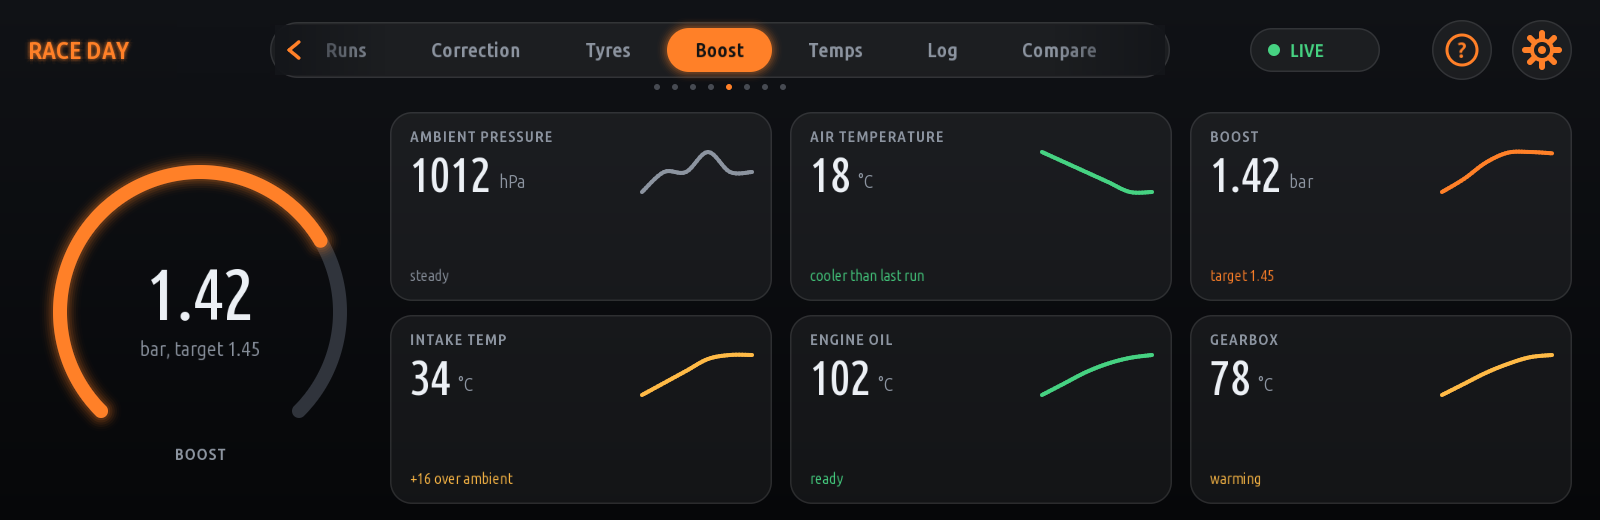
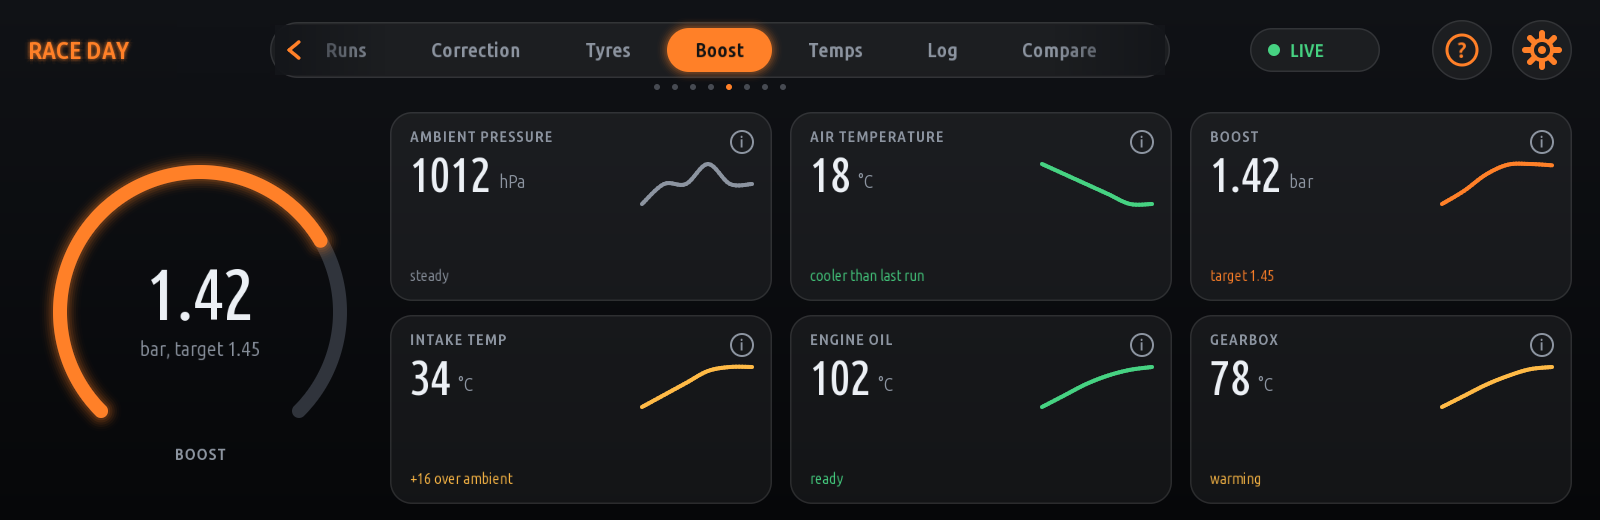
Explain every card: the (i), the info popup and How to use
Owner 17:35: every card has a small (i) top right and tapping it opens a
popup with an animation on the left and plain text on the right (what it
is, where it comes from, why it matters, normal values), a close X and a
Got it button. The How to use page uses the same pattern: topics, the
animation, the text.

lib/ui.js: card(), stat() and chart() draw the (i) and take onInfo;
infoPopup() and helpPage() take the knob and touches while open; the
text is translated before it is wrapped. tools/ui_demo.js also draws
both overlays (docs/design/ui-demo-popup.png, ui-demo-help.png) and
checks the popup leaves only its own targets.

diff --git a/lib/ui.js b/lib/ui.js
@@ -204,14 +204,22 @@ function gearGlyph(cv, cx, cy, c) {
     cv.arc(cx, cy, 8, 12, 0, 360, c);
     cv.circle(cx, cy, 4, c);
 }
-/** A round glass icon button, kind 'help' or 'settings'. No label under it: it would push the button off the header's centre line (owner, 17:17). */
+/** The close glyph: an X of two round-ended strokes. */
+function closeGlyph(cv, cx, cy, c) {
+    const d = 9;
+    cv.line(cx - d, cy - d, cx + d, cy + d, 4, c);
+    cv.line(cx - d, cy + d, cx + d, cy - d, 4, c);
+}
+/** A round glass icon button, kind 'help', 'settings' or 'close'. No label under it: it would push the button off the header's centre line (owner, 17:17). */
 function iconButton(cv, cx, cy, kind) {
     const r = 30, glow = 4, S = r + glow;
     cv.blit(G.layer('p96btn|' + kind, 2 * S + 40, 2 * S, (c) => {
         const x = S + 20;
         c.circle(x, S, r, C.glassFill);
         c.arc(x, S, r - 1.5, r, 0, 360, C.glassLine);
-        if (kind === 'help') helpGlyph(c, x, S, C.accent); else gearGlyph(c, x, S, C.accent);
+        if (kind === 'help') helpGlyph(c, x, S, C.accent);
+        else if (kind === 'close') closeGlyph(c, x, S, C.accent);
+        else gearGlyph(c, x, S, C.accent);
     }, cv.textScale), cx - S - 20, cy - S);
 }
 /**
@@ -258,12 +266,32 @@ function glass(cv, x, y, w, h, r) {
     cv.roundRect(x, y, w, h, r, C.glassFill);
     cv.strokeRoundRect(x, y, w, h, r, 1.5, C.glassLine);
 }
-/** A glass card as a cached layer, with an optional uppercase label. */
-function card(cv, x, y, w, h, label, r) {
-    cv.blit(G.layer('p96card|' + w + '|' + h + '|' + (label || '') + '|' + (r || 22), w, h, (c) => {
+/**
+ * The small (i) top right of every card (owner, 17:35): a dim ring and an "i". Dim, not the accent:
+ * it sits in the card's cached layer and must not change with the ambient light.
+ */
+function infoDot(cv, cx, cy) {
+    cv.arc(cx, cy, 10, 12, 0, 360, C.dim);
+    cv.text('i', cx, cy + 5.5, 15, C.dim, { font: 'bold', align: 'center', literal: true });
+}
+const INFO_DX = 30, INFO_DY = 30;   // the (i)'s centre from the card's top right corner
+/** The (i) is on every card; onInfo makes the whole card a touch and knob target that opens its popup. */
+function cardInfo(cv, x, y, w, h, onInfo, r) {
+    if (typeof onInfo === 'function' && cv.target) cv.target(x, y, w, h, onInfo, 'p96info|' + x + '|' + y, r == null ? 22 : r);
+}
+/**
+ * A glass card as a cached layer, with an optional uppercase label and the (i) top right (owner, 17:35).
+ * onInfo: a function opens the card's info popup on a tap (infoPopup()); false leaves the (i) out (a
+ * card inside a popup or a page that is itself the explanation).
+ */
+function card(cv, x, y, w, h, label, r, onInfo) {
+    const dot = onInfo !== false;
+    cv.blit(G.layer('p96card|' + w + '|' + h + '|' + (label || '') + '|' + (r || 22) + '|' + (dot ? 'i' : ''), w, h, (c) => {
         glass(c, 0, 0, w, h, r);
         if (label) c.text(String(label).toUpperCase(), 20, 30, 15, C.dim, { font: 'bold', spacing: 1 });
+        if (dot) infoDot(c, w - INFO_DX, INFO_DY);
     }, cv.textScale), x, y);
+    cardInfo(cv, x, y, w, h, onInfo, r);
 }
 
 /** Catmull-Rom through pts, `k` steps a segment: every Paget96 Garage line is a smooth curve. */
@@ -304,15 +332,15 @@ function bar(cv, x, y, w, h, frac, c) {
 /**
  * Stat card: g = { label, value, decimals, unit, sub, color, history }. color names the status
  * ('ok' green, 'warm' amber, 'accent' orange, 'dim', 'bad', 'info' or a '#hex'); it colours the sub
- * line and the sparkline. value null shows "--".
+ * line and the sparkline. value null shows "--". g.onInfo opens the card's info popup (see card()).
  */
 function stat(cv, x, y, w, h, g) {
-    card(cv, x, y, w, h, g.label);
+    card(cv, x, y, w, h, g.label, null, g.onInfo);
     const vs = G.isNum(g.value) ? G.fmt(g.value, g.decimals) : g.value != null ? String(g.value) : '--';
     const vw = cv.text(vs, x + 20, y + 80, 48, G.isNum(g.value) || g.value != null ? C.text : C.dim, { font: 'num', literal: true });
     if (g.unit) cv.text(g.unit, x + 28 + vw, y + 76, 18, C.dim);
     if (g.sub) cv.text(g.sub, x + 20, y + h - 20, 15, colour(g.color));
-    if (g.history) spark(cv, x + w - 130, y + 40, 110, 40, g.history, g.color || C.orange);
+    if (g.history) spark(cv, x + w - 130, y + 52, 110, 40, g.history, g.color || C.orange);   // under the (i)
 }
 
 /* ---------- hero ring ---------- */
@@ -353,16 +381,19 @@ function pill(cv, x, y, text, c, filled) {
 
 /**
  * A chart in the same style: glass card, faint grid, line series with a soft fill under the first.
- * series = [{ values, color }], opts = { label, min, max, gridLines (4) }.
+ * series = [{ values, color }], opts = { label, min, max, gridLines (4), onInfo } (onInfo: see card()).
  */
 function chart(cv, x, y, w, h, series, opts) {
     opts = opts || {};
-    const top = opts.label ? 48 : 20, px = x + 20, py = y + top, pw = w - 40, ph = h - top - 20, n = opts.gridLines || 4;
-    cv.blit(G.layer('p96chart|' + w + '|' + h + '|' + (opts.label || '') + '|' + n, w, h, (c) => {
+    const dot = opts.onInfo !== false;
+    const top = opts.label || dot ? 48 : 20, px = x + 20, py = y + top, pw = w - 40, ph = h - top - 20, n = opts.gridLines || 4;
+    cv.blit(G.layer('p96chart|' + w + '|' + h + '|' + (opts.label || '') + '|' + n + '|' + (dot ? 'i' : ''), w, h, (c) => {
         glass(c, 0, 0, w, h);
         if (opts.label) c.text(String(opts.label).toUpperCase(), 20, 30, 15, C.dim, { font: 'bold', spacing: 1 });
+        if (dot) infoDot(c, w - INFO_DX, INFO_DY);
         for (let i = 0; i <= n; i++) c.fillRect(20, top + Math.round(i * ph / n), pw, 1, [255, 255, 255, 18]);
     }, cv.textScale), x, y);
+    cardInfo(cv, x, y, w, h, opts.onInfo);
     const all = [];
     series.forEach((s) => (s.values || []).forEach((v) => { if (G.isNum(v)) all.push(v); }));
     if (!all.length) return;
@@ -377,7 +408,152 @@ function chart(cv, x, y, w, h, series, opts) {
     });
 }
 
+/* ---------- explaining: the info popup and the How to use page (owner, 2026-11-26 17:35) ---------- */
+
+const tr = kit('i18n').t;
+const fitText = kit('text-layout').fitText;
+const wrapped = new Map();
+/** str (translated first, so whole sentences are translated) broken into lines that fit width. Memoised. */
+function wrap(cv, str, size, width, opts) {
+    const o = Object.assign({}, opts || {}, { literal: true });
+    const key = size + '|' + width + '|' + (o.font || '') + '|' + str;
+    if (wrapped.has(key)) return wrapped.get(key);
+    const out = [];
+    String(tr(String(str))).split('\n').forEach((para) => {
+        let line = '';
+        para.split(/\s+/).filter(Boolean).forEach((word) => {
+            const next = line ? line + ' ' + word : word;
+            if (!line || cv.textWidth(next, size, o) <= width) line = next;
+            else { out.push(line); line = word; }
+        });
+        out.push(line);
+    });
+    if (wrapped.size > 400) wrapped.clear();
+    wrapped.set(key, out);
+    return out;
+}
+
+/**
+ * The explanation text: sections [{ head, text }] (what it is, where it comes from, why it matters,
+ * normal values), or one plain text. Heads uppercase dim, text wrapped. Stops before maxY; the last
+ * line that still fits ends in "...". Returns the y under the last line.
+ */
+function explain(cv, x, y, w, maxY, sections) {
+    const list = typeof sections === 'string' ? [{ text: sections }] : (sections || []);
+    const size = 18, lh = 25, o = { literal: true };
+    for (let s = 0; s < list.length; s++) {
+        if (list[s].head) {
+            if (y + 20 > maxY) return y;
+            cv.text(String(tr(String(list[s].head))).toUpperCase(), x, y + 15, 14, C.dim, { font: 'bold', spacing: 1, literal: true });
+            y += 26;
+        }
+        const lines = wrap(cv, list[s].text || '', size, w);
+        for (let i = 0; i < lines.length; i++) {
+            if (y + lh > maxY) {
+                cv.text(fitText(cv, lines[i] + '...', size, w, o), x, y + size, size, C.text, o);
+                return y + lh;
+            }
+            cv.text(lines[i], x, y + size, size, C.text, o);
+            y += lh;
+        }
+        y += 14;
+    }
+    return y;
+}
+
+/** Seconds since `since` (ms), the clock an explanation's animation runs on. */
+const sinceOpen = (since) => (Date.now() - (since || 0)) / 1000;
+
+/** An overlay takes the knob and the touches: the page's targets under it go. */
+function modal(cv) { if (cv.targets) cv.targets.length = 0; }
+
+/** The filled accent button ("Got it"): a pill with a glow, dark bold text. Chrome, so C.accent. */
+function button(cv, x, y, w, h, text, run, key) {
+    cv.blit(G.layer('p96button|' + w + '|' + h + '|' + text, w + 32, h + 32, (c) => {
+        glowRoundRect(c, 16, 16, w, h, h / 2, C.accent, 12, 0.8);
+        c.roundRect(16, 16, w, h, h / 2, C.accent);
+        c.text(text, 16 + w / 2, 16 + h / 2 + 7, 19, C.dark, { font: 'bold', align: 'center' });
+    }, cv.textScale), x - 16, y - 16);
+    if (run && cv.target) cv.target(x, y, w, h, run, key || 'p96button|' + text, h / 2);
+}
+
+/** When an explanation has no animation yet: a slow pulsing (i). */
+function defaultArt(cv, x, y, w, h, t) {
+    const cx = x + w / 2, cy = y + h / 2, r = 46 + 6 * Math.sin(t * 2.4);
+    cv.arc(cx, cy, r - 5, r, 0, 360, C.dim);
+    cv.text('i', cx, cy + 22, 64, C.dim, { font: 'bold', align: 'center', literal: true });
+}
+
+const POP = { x: 120, y: 26, w: 1360, h: 468 };
+/**
+ * The info popup a card opens (owner, 17:35): the page dims, a glass panel shows an animation on the
+ * left (what the value is and how it works) and plain text on the right, with a close X top right and
+ * a "Got it" button. Draw it last, over the page; it takes the knob and touches while open.
+ * p = { title, sections: [{ head, text }] or text, art(cv, x, y, w, h, t), since (ms it opened),
+ *       onClose, gotIt ('Got it') }. art draws into the box each frame; t is seconds since `since`.
+ */
+function infoPopup(cv, p) {
+    p = p || {};
+    modal(cv);
+    const pw = cv.w || W, ph = cv.h || H, b = POP;
+    cv.fillRect(0, 0, pw, ph, [0, 0, 0, 170]);
+    const ax = b.x + 24, ay = b.y + 24, aw = 480, ah = b.h - 48;
+    cv.blit(G.layer('p96pop|' + b.w + '|' + b.h, b.w, b.h, (c) => {
+        c.roundRect(0, 0, b.w, b.h, 28, C.bgTop);
+        glass(c, 0, 0, b.w, b.h, 28);
+        glass(c, 24, 24, aw, ah, 20);
+    }, cv.textScale), b.x, b.y);
+    (p.art || defaultArt)(cv, ax, ay, aw, ah, sinceOpen(p.since));
+    const tx = ax + aw + 36;
+    if (p.title) cv.text(p.title, tx, b.y + 64, 28, C.text, { font: 'bold' });
+    const bh = 52, bw = 180, by = b.y + b.h - 24 - bh;
+    explain(cv, tx, b.y + 92, b.x + b.w - 36 - tx, by - 12, p.sections != null ? p.sections : p.text);
+    iconButton(cv, b.x + b.w - 54, b.y + 54, 'close');
+    if (p.onClose && cv.target) cv.target(b.x + b.w - 84, b.y + 24, 60, 60, p.onClose, 'p96popclose', 30);
+    button(cv, b.x + b.w - 36 - bw, by, bw, bh, p.gotIt || 'Got it', p.onClose, 'p96popok');
+}
+
+/**
+ * The How to use page behind the ? button (owner, 17:35): the same pattern as the popup on a whole
+ * page. Topics on the left (touch and knob targets), the selected topic's animation in the middle,
+ * its explanation on the right, a close X top right where the Settings button sits. Up to 6 topics.
+ * p = { topics: [{ title, sections or text, art }], sel, onSelect(i), onClose, since, name ('HOW TO USE') }.
+ * since: ms the topic was opened, so its animation starts from the beginning.
+ */
+function helpPage(cv, p) {
+    p = p || {};
+    modal(cv);
+    const topics = p.topics || [], sel = G.clamp(p.sel || 0, 0, Math.max(0, topics.length - 1));
+    const pw = cv.w || W, ph = cv.h || H, top = CONTENT_TOP, bottom = ph - 16;
+    background(cv, pw, ph);
+    title(cv, p.name || 'HOW TO USE');
+    const cx = pw - MARGIN - 30;
+    iconButton(cv, cx, HEAD_CY, 'close');
+    if (p.onClose && cv.target) cv.target(cx - 30, HEAD_CY - 30, 60, 60, p.onClose, 'p96helpclose', 30);
+    // topics
+    const lx = MARGIN, lw = 340, rh = 54, gap = 10;
+    topics.slice(0, 6).forEach((tp, i) => {
+        const ry = top + i * (rh + gap), on = i === sel;
+        cv.blit(G.layer('p96topic|' + lw + '|' + rh + '|' + tp.title + '|' + (on ? 1 : 0), lw + 28, rh + 28, (c) => {
+            if (on) { glowRoundRect(c, 14, 14, lw, rh, rh / 2, C.accent, 12, 0.8); c.roundRect(14, 14, lw, rh, rh / 2, C.accent); }
+            else glass(c, 14, 14, lw, rh, rh / 2);
+            c.text(fitText(c, tp.title, 19, lw - 48, { font: 'bold' }), 14 + 24, 14 + rh / 2 + 7, 19, on ? C.dark : C.text, { font: 'bold', literal: true });
+        }, cv.textScale), lx - 14, ry - 14);
+        if (p.onSelect && cv.target) cv.target(lx, ry, lw, rh, () => p.onSelect(i), 'p96topic' + i, rh / 2);
+    });
+    // the animation, then the text
+    const ax = lx + lw + 24, aw = 520, ah = bottom - top;
+    card(cv, ax, top, aw, ah, null, 22, false);
+    const tp = topics[sel] || {};
+    (tp.art || defaultArt)(cv, ax + 16, top + 16, aw - 32, ah - 32, sinceOpen(p.since));
+    const tx = ax + aw + 24, tw = pw - MARGIN - tx;
+    card(cv, tx, top, tw, ah, null, 22, false);
+    if (tp.title) cv.text(tp.title, tx + 28, top + 48, 26, C.text, { font: 'bold' });
+    explain(cv, tx + 28, top + 70, tw - 56, bottom - 18, tp.sections != null ? tp.sections : tp.text);
+}
+
 module.exports = {
     W, H, MARGIN, HEAD_CY, CONTENT_TOP, C, STATUS, background, title, tabs, nextTab, header, iconButton, status, glass, card, stat, spark, curve, smoothPts, bar, ring, pill, chart,
+    infoDot, infoPopup, helpPage, explain, wrap, button,
     glowRoundRect, glowArc, glowText,
 };

diff --git a/tools/ui_demo.js b/tools/ui_demo.js
@@ -5,7 +5,8 @@
  * Draws the Paget96 Garage UI reference page (docs/design/ui-B-final.png) with lib/ui.js, through the
  * same path the head unit's software fallback uses (record.js Recorder played into canvas.js),
  * and writes docs/design/ui-demo.png, so the library can be checked against the reference.
- * It also times a frame recording, the part the GPU path pays every frame.
+ * It also times a frame recording, the part the GPU path pays every frame. Beside it, it draws a
+ * card's info popup (<out>-popup.png) and the How to use page (<out>-help.png).
  *
  *   node tools/ui_demo.js [out.png]
  */
@@ -34,6 +35,31 @@ function frame(cv) {
     CONTENT.forEach((g, i) => UI.stat(cv, 390 + (i % 3) * 400, UI.CONTENT_TOP + Math.floor(i / 3) * 203, 382, 189, g));
 }
 
+/** The Boost popup's animation: the ring fills and falls back, as boost builds and drops. */
+function boostArt(cv, x, y, w, h, t) {
+    const v = 0.45 + 0.4 * Math.sin(t * 1.6);
+    UI.ring(cv, x + w / 2, y + h / 2 - 10, 140, { value: v, min: 0, max: 1, text: (v * 2).toFixed(2), unit: 'bar', label: 'Boost', smooth: false });
+}
+const BOOST_INFO = {
+    title: 'Boost',
+    sections: [
+        { head: 'What it is', text: 'How far the turbo pushes the intake air above the air pressure outside, in bar.' },
+        { head: 'Where it comes from', text: 'The engine computer reports the charge pressure; the app takes away the ambient pressure.' },
+        { head: 'Why it matters', text: 'Boost that stays under its target on a run points at a leak, a hot intake or thin air.' },
+        { head: 'Normal values', text: 'Near 0 at idle, up to the target under full load. The target is the small line under the number.' },
+    ],
+    art: boostArt,
+};
+const HELP = [
+    { title: 'Start a run', text: 'Stop, choose a run on the Runs tab and pull away. The run starts by itself when the car moves.', art: boostArt },
+    { title: 'Read the cards', text: 'Every card shows one value, a coloured line under it and its trend on the right. Tap a card to see what it means.' },
+    { title: 'Correction', text: 'Times are corrected to standard air, so runs on hot and cold days can be compared.' },
+    { title: 'Settings', text: 'The gear opens Settings: renderer, frame rate, follow ambient lighting and demo data.' },
+];
+
+function popupFrame(cv) { frame(cv); UI.infoPopup(cv, Object.assign({ since: Date.now() - 600, onClose() {} }, BOOST_INFO)); }
+function helpFrame(cv) { UI.helpPage(cv, { topics: HELP, sel: 0, since: Date.now() - 600, onSelect() {}, onClose() {} }); }
+
 const rec = new Recorder(UI.W, UI.H);
 frame(rec);                                    // first frame records the cached layers
 const N = 200, t0 = process.hrtime();
@@ -44,3 +70,14 @@ play(rec.words(), cv);
 const out = process.argv[2] || path.join(__dirname, '..', 'docs', 'design', 'ui-demo.png');
 fs.writeFileSync(out, cv.png(9));
 console.log('%s: one frame records in %s ms (%d words)', out, ms.toFixed(3), rec.words().length);
+
+[['popup', popupFrame], ['help', helpFrame]].forEach((d) => {
+    const r = new Recorder(UI.W, UI.H);
+    d[1](r);
+    if (d[0] === 'popup' && r.targets.length !== 2) throw new Error('the popup must leave only its own two targets, has ' + r.targets.length);
+    const c = new Canvas(UI.W, UI.H);
+    play(r.words(), c);
+    const o = out.replace(/\.png$/, '') + '-' + d[0] + '.png';
+    fs.writeFileSync(o, c.png(9));
+    console.log('%s: %d words, %d targets', o, r.words().length, r.targets.length);
+});

diff --git a/docs/DESIGN.md b/docs/DESIGN.md
@@ -18,9 +18,9 @@ The same page drawn by `lib/ui.js` (`node tools/ui_demo.js`, the head unit's sof
 | App name | top left, x 28, baseline 44 | bold 24, orange, soft orange glow |
 | Tabs | glass bar x 270 to 1170, y 12, 56 high | pills; the selected one filled orange with a glow and dark text, the others dim. Many tabs scroll sideways: the ends fade out, round-ended arrows (left, right) show where there is more, position dots sit under the bar, the selected tab glides into view, and the iDrive knob goes through all tabs |
 | Status pill | glass pill 130 x 44, left of the two buttons (x 1250) | a dot and LIVE (green) or demo |
-| How to use, Settings | round glass buttons, r 30, flush right at the title's margin (28 px): Settings centred at x 1542, How to use at 1462; the Settings button's right edge is the content cards' right edge | "?" and a gear in orange, a small dim label under each. Both pages are mandatory in every app |
+| How to use, Settings | round glass buttons, r 30, flush right at the title's margin (28 px): Settings centred at x 1542, How to use at 1462; the Settings button's right edge is the content cards' right edge | "?" and a gear in the accent, no labels under them (owner, 17:17). Both pages are mandatory in every app |
 | Hero ring | left column, centre (200, 300), r 150 | dark track, orange arc with glow over 270 degrees, the number large in the middle, a unit line, an uppercase label below. Only where an app has one main number |
-| Cards | right of the ring, 3 x 2, 386 x 200, 14 px apart | glass: white 6 % fill, 10 % outline, radius 22; uppercase dim label, big condensed number, small unit, a coloured one-line status, a sparkline on the right |
+| Cards | right of the ring, 3 x 2, 386 x 200, 14 px apart | glass: white 6 % fill, 10 % outline, radius 22; uppercase dim label, a dim (i) top right, big condensed number, small unit, a coloured one-line status, a sparkline on the right under the (i) |
 
 Status colours: green (70,210,130) ok, amber (255,186,70) warming, orange (255,128,40) accent, dim
 (140,148,160) neutral, red bad, blue info. Text (236,240,245).
@@ -40,12 +40,33 @@ frame surface as every kit widget: the GPU renderer at 60 fps, or the software c
 | `status(cv, label, note, color)` | LIVE / demo as plain text (a page without the header) |
 | `bar(cv, x, y, w, h, frac, color)` | a progress bar with round ends |
 | `curve(cv, pts, width, color)` | a smoothed line with round caps and joins |
-| `card(cv, x, y, w, h, label)` | a glass card |
-| `stat(cv, x, y, w, h, { label, value, decimals, unit, sub, color, history })` | a stat card with sparkline |
+| `card(cv, x, y, w, h, label, r, onInfo)` | a glass card with the (i) top right; `onInfo` makes the card a target that opens its popup, `false` leaves the (i) out |
+| `stat(cv, x, y, w, h, { label, value, decimals, unit, sub, color, history, onInfo })` | a stat card with sparkline |
 | `ring(cv, cx, cy, r, { value, min, max, text, unit, label, color })` | the hero ring (the arc glides) |
 | `pill(cv, x, y, text, color, filled)` | a status pill |
-| `chart(cv, x, y, w, h, series, { label, min, max })` | a chart card: grid, lines, a soft fill under the first |
+| `chart(cv, x, y, w, h, series, { label, min, max, onInfo })` | a chart card: grid, lines, a soft fill under the first |
+| `infoPopup(cv, { title, sections, art, since, onClose })` | a card's info popup over the page: animation left, text right, close X and Got it |
+| `helpPage(cv, { topics, sel, onSelect, onClose, since })` | the How to use page: topics, animation, text, close X |
+| `explain`, `wrap`, `button`, `infoDot` | the parts: sections of wrapped text, word wrap, the filled accent button, the (i) |
 | `spark`, `glass`, `glowRoundRect`, `glowArc`, `glowText` | the parts, for new widgets |
+
+## Explaining every card (owner, 17:35)
+
+Every card has a small dim (i) top right (`card()`, `stat()`, `chart()` draw it). Tapping the card
+opens its popup, `infoPopup()`: the page dims, an animation on the left shows what the value is and
+how it works, plain text on the right says what it is, where it comes from, why it matters and its
+normal values (`sections: [{ head, text }]`), with a close X and a Got it button. The How to use page
+behind the ? button, `helpPage()`, uses the same pattern on a whole page: up to 6 topics on the left,
+the topic's animation in the middle, its explanation on the right, a close X where Settings sits.
+
+An app keeps the open popup or topic in its own state and draws the overlay last. Both take the knob
+and touches while open: they drop the page's targets under them. `art(cv, x, y, w, h, t)` draws the
+animation each frame, `t` in seconds since `since` (the ms the popup or topic opened), so it starts
+from the beginning. Without `art` a pulsing (i) stands in. Text goes through the translations before
+it is wrapped, so whole sentences are translated.
+
+![Info popup](design/ui-demo-popup.png)
+![How to use](design/ui-demo-help.png)
 
 ## Round ends everywhere
 
@@ -60,7 +81,8 @@ square ends anywhere.
 Everything static (background, title, tab bar per selection, card glass and label, ring track and
 label, chart grid) is a cached layer (`gauges.layer`), drawn into a texture once; a frame records only
 numbers, sparklines and the ring's arc. `tools/ui_demo.js` reports the recording time of a frame
-(about 0.15 ms on a PC for the reference page, 1386 words).
+(about 0.5 ms on a laptop for the reference page, 2980 words) and also draws the popup and the How to
+use page (`docs/design/ui-demo-popup.png`, `docs/design/ui-demo-help.png`).
 
 **In an app** the file ships as `garage_ui.js` beside `main.js` (`tools/build.py` copies it):
 `const UI = require('./garage_ui');`. Node 8 only syntax.
